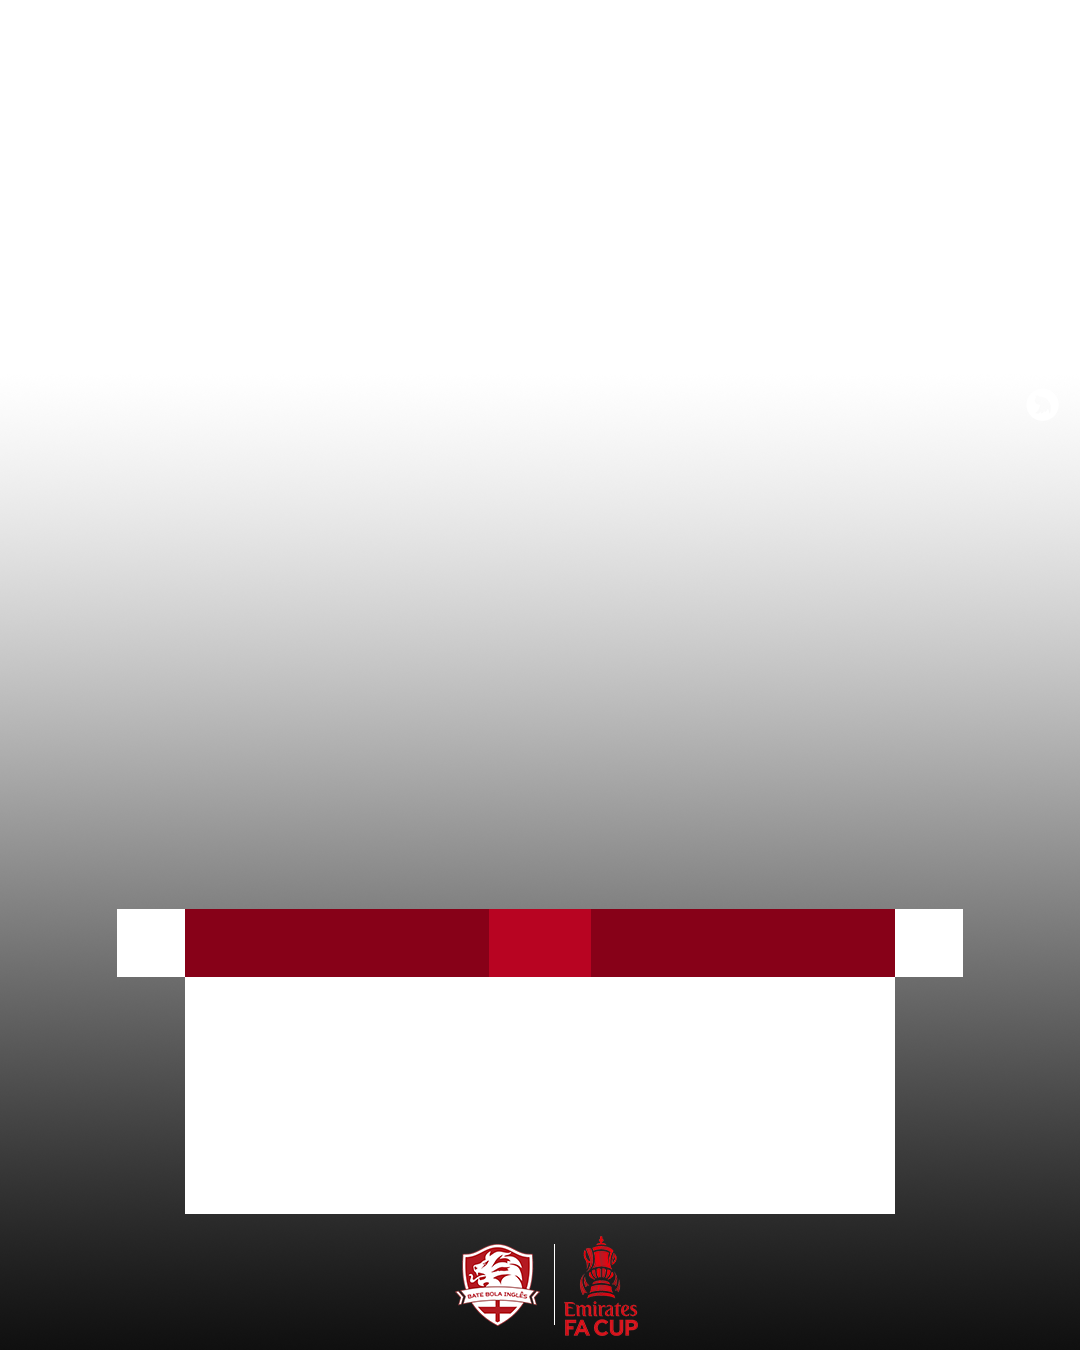
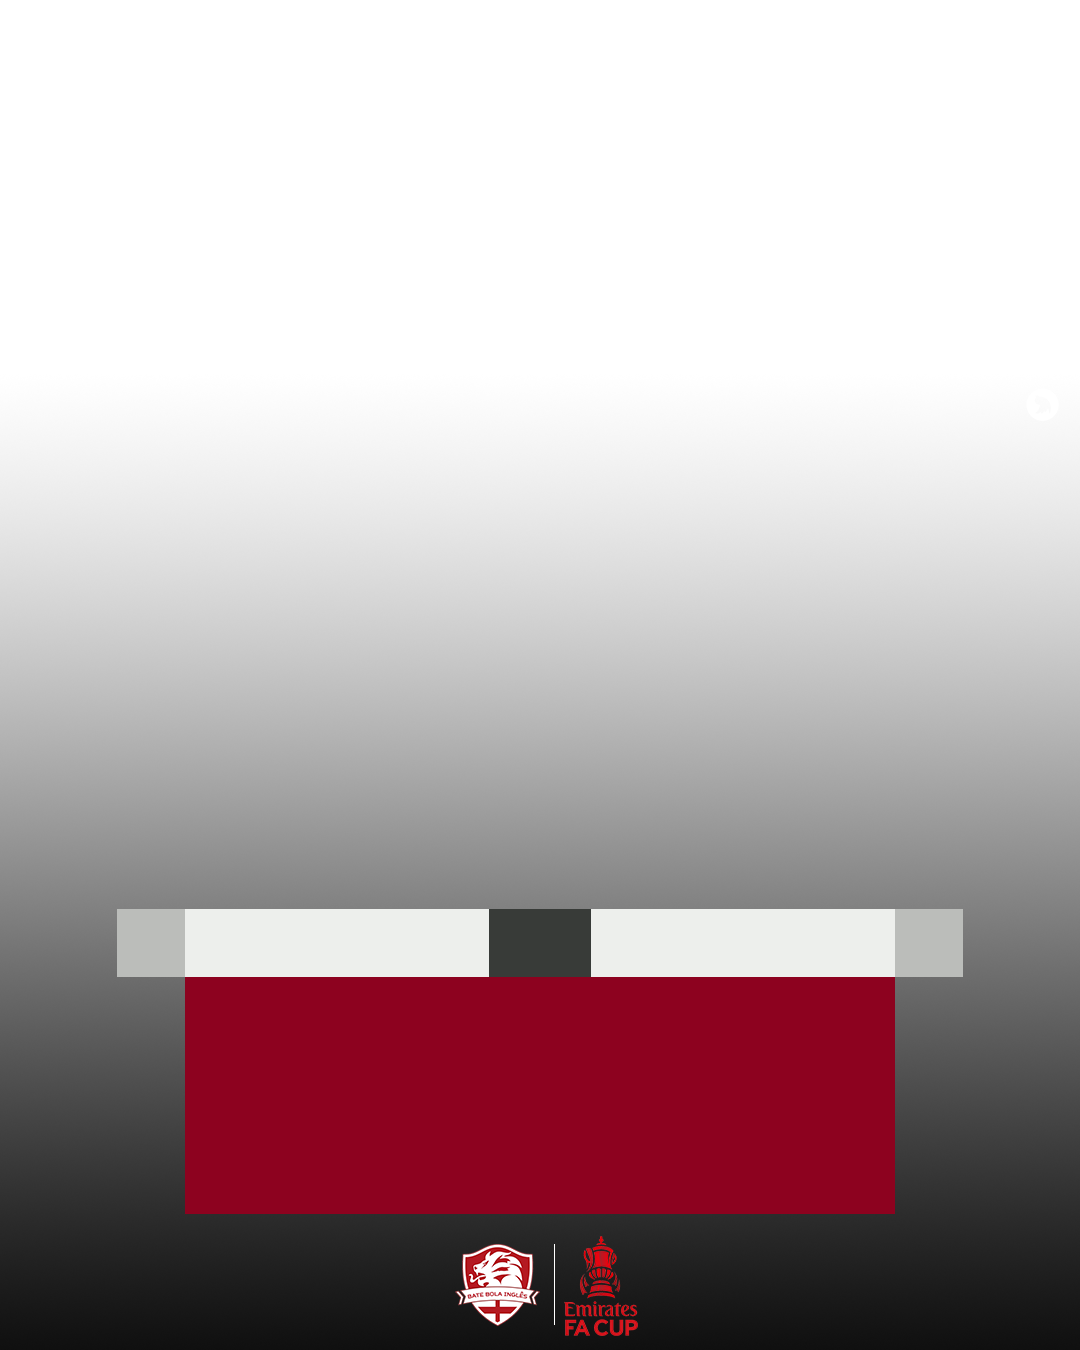
Template novo da FA Cup

Changed region(s): [[0.0917, 0.6533, 0.9167, 0.9022]]

diff --git a/app.py b/app.py
@@ -184,17 +184,18 @@ def obter_config_template(template_path):
             "pos_placar": 923,
         }
     elif "facup" in nome:
-        h = 912
+        h = 914
         return {
             "fonte_normal": "fontes/facup.otf",
             "fonte_bold": "fontes/facup-bold.otf",
             "escudo_tamanho": (60, 60),
             "pos_home": (121, h),
             "pos_away": (-181, h),
-            "cor_texto": "#870118",
+            "cor_texto_times": "#383b38",
+            "cor_texto": "white",
             "cor_texto_placar": "white",
-            "pos_nome_home": (336, h+20),  # Posição absoluta
-            "pos_nome_away": (742, h+20),
+            "pos_nome_home": (336, h+18),  # Posição absoluta
+            "pos_nome_away": (742, h+18),
             "pos_placar": 920,
         }
     elif "ucl" in nome:
@@ -348,6 +349,8 @@ def desenhar_placar(template_path, escudo_casa, escudo_fora, placar_texto, marca
         # Desenha
         if ing:
             draw.text((x_centered, y), nome_maiusculo, font=fonte_usada, fill=cor_texto)
+        elif "facup" in path_lower:
+            draw.text((x_centered, y), nome_maiusculo, font=fonte_usada, fill=config["cor_texto_times"])
         else:
             draw.text((x_centered, y), nome_maiusculo, font=fonte_usada, fill='white')
 
@@ -374,6 +377,9 @@ def desenhar_placar(template_path, escudo_casa, escudo_fora, placar_texto, marca
         elif "pên" in conteudo:
             label = "Pênaltis: "
             valor = conteudo.replace("pên.", "").replace("pên", "").strip()
+        elif "pen" in conteudo:
+            label = "Pênaltis: "
+            valor = conteudo.replace("pen.", "").replace("pen", "").strip()
         else:
             label = ""
             valor = conteudo  # fallback
